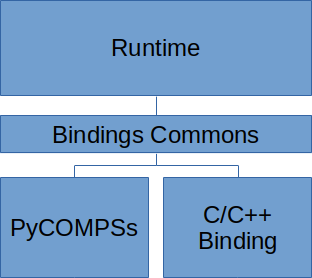
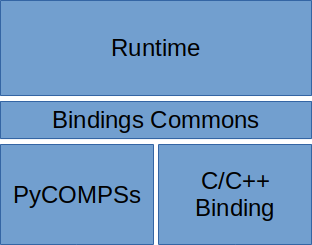
Modified diagrams, simplified them

diff --git a/tex/compss.tex b/tex/compss.tex
@@ -35,7 +35,7 @@ An overview of the main COMPSs components can be found in figure \ref{fig:compss
 \begin{figure}
 \centering
 \includegraphics{figures/compss_modules.png}
-\caption{Overview of the main COMPSs components. A line between two modules means that they share messages and communications between them}
+\caption{Overview of the main COMPSs components.}
 \label{fig:compss_modules}
 \end{figure}
 
@@ -43,14 +43,14 @@ An overview of the main COMPSs components can be found in figure \ref{fig:compss
 \begin{figure}
 \centering
 \includegraphics{figures/pending.jpg}
-\caption{Overview of the main Runtime components. A line between two modules means that they share messages and communications between them}
+\caption{Overview of the main Runtime components.}
 \label{fig:runtime_modules}
 \end{figure}
 
 \begin{figure}
 \centering
 \includegraphics{figures/pycompss_modules.png}
-\caption{Overview of the main PyCOMPSs components. A line between two modules means that they share messages and communications between them}
+\caption{Overview of the main PyCOMPSs components.}
 \label{fig:pycompss_modules}
 \end{figure}
 

diff --git a/tex/compss_example.tex b/tex/compss_example.tex
@@ -13,7 +13,7 @@ Lets suppose that we want to approximate the value of $\pi$. For this purpose we
 \begin{figure}[ht!]
 \centering
 \includegraphics[scale=0.5]{figures/circle_square.png}
-\caption{A graphical representation of the random experiment. If the square has side length $2$ then the circle will have radius $1$, and therefore area $\pi$. In proportion, $\frac{\pi}{4}$ of the points belong to the circle}
+\caption{A graphical representation of the random experiment. The square has side length $2$, so the circle has radius $1$, and therefore area $\pi$. In proportion, $\frac{\pi}{4}$ of the points belong to the circle}
 \label{fig:circle_square}
 \end{figure}
 

diff --git a/applications/COLLECTION_IN/main.py b/applications/COLLECTION_IN/main.py
@@ -29,9 +29,6 @@ def select_element(c, i):
   """
   return c[i]
 
-
-
-
 def main():
   from pycompss.api.api import compss_wait_on
   # Generate ten random vectors with pre-determined seed
